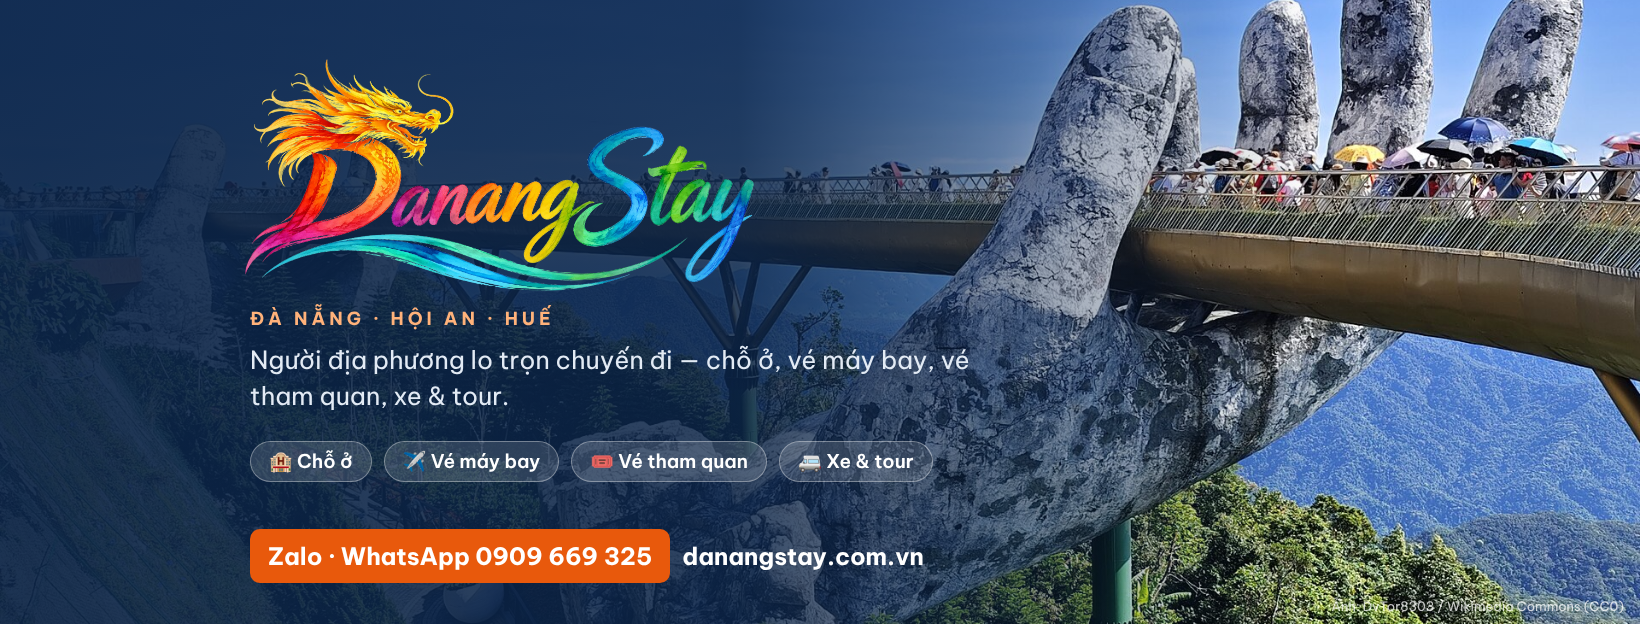
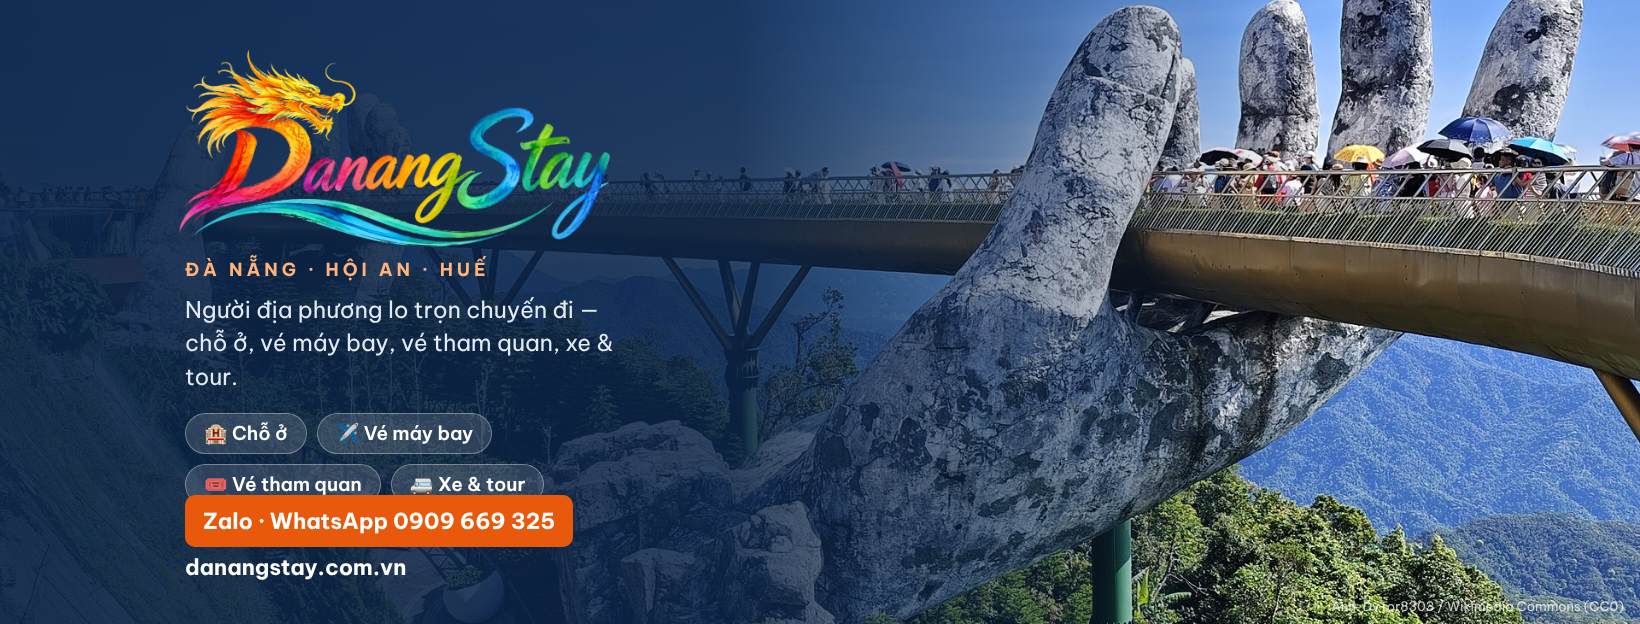
Ảnh bìa Facebook: chừa chỗ ảnh đại diện, vùng an toàn điện thoại
Claude-Session: https://claude.ai/code/session_01Wm6ymen9qs3NkDMsWRNfiE

Changed region(s): [[0.0933, 0.0913, 0.5909, 0.9439], [0.4354, 0.5481, 0.5909, 0.609]]

diff --git a/danangstay/facebook/anh-bia.html b/danangstay/facebook/anh-bia.html
@@ -6,14 +6,14 @@ html,body{margin:0}
 .c img.bg{position:absolute;inset:0;width:100%;height:100%;object-fit:cover;object-position:center 45%}
 .c .sh{position:absolute;inset:0;background:linear-gradient(90deg,rgba(11,36,71,.93) 0%,rgba(11,36,71,.85) 45%,rgba(11,36,71,.35) 66%,rgba(11,36,71,0) 80%)}
 /* vùng an toàn: FB cắt ~ 1200px giữa trên điện thoại */
-.t{position:absolute;left:250px;top:44px;width:760px}
+.t{position:absolute;left:185px;top:40px;width:470px}
 .k{font:700 18px/1 'Be Vietnam Pro';letter-spacing:.22em;text-transform:uppercase;color:#ffb27a}
 h1{margin:14px 0 10px;font:600 78px/1.02 'Playfair Display',serif}
 h1 em{color:#ffb27a}
-p{margin:0 0 26px;font-size:25px;line-height:1.45;color:#e3ebf5}
-.s{display:flex;gap:12px;flex-wrap:wrap}
+p{margin:0 0 20px;font-size:23px;line-height:1.45;color:#e3ebf5}
+.s{display:flex;gap:10px;flex-wrap:wrap;width:440px}
 .s span{background:rgba(255,255,255,.14);border:1px solid rgba(255,255,255,.35);border-radius:999px;padding:10px 18px;font:600 19px/1 'Be Vietnam Pro'}
-.ph{position:absolute;left:250px;bottom:56px;font:700 24px/1 'Be Vietnam Pro'}
+.ph{position:absolute;left:185px;bottom:34px;width:560px;font:700 22px/2.1 'Be Vietnam Pro'}
 .ph b{background:#e8590c;border-radius:10px;padding:12px 18px;margin-right:12px}
 .cr{position:absolute;right:16px;bottom:10px;font-size:13px;color:rgba(255,255,255,.75)}
 </style></head><body>
@@ -21,10 +21,10 @@ p{margin:0 0 26px;font-size:25px;line-height:1.45;color:#e3ebf5}
 <img class="bg" src="bia-goc.jpg">
 <div class="sh"></div>
 <div class="t">
-<img src="logo.png" style="display:block;width:520px;margin:10px 0 14px -10px">
-<div class="k" style="margin-bottom:14px">Đà Nẵng · Hội An · Huế</div><p>Người địa phương lo trọn chuyến đi — chỗ ở, vé máy bay, vé tham quan, xe &amp; tour.</p>
+<img src="logo.png" style="display:block;width:440px;margin:6px 0 10px -10px">
+<div class="k" style="margin-bottom:14px">Đà Nẵng · Hội An · Huế</div><p>Người địa phương lo trọn chuyến đi — chỗ&nbsp;ở, vé máy bay, vé tham quan, xe &amp; tour.</p>
 <div class="s"><span>🏨 Chỗ ở</span><span>✈ Vé máy bay</span><span>🎟 Vé tham quan</span><span>🚐 Xe &amp; tour</span></div>
 </div>
-<div class="ph"><b>Zalo · WhatsApp 0909 669 325</b>danangstay.com.vn</div>
+<div class="ph"><b>Zalo · WhatsApp 0909 669 325</b><br>danangstay.com.vn</div>
 <div class="cr">Ảnh: DvTor8303 / Wikimedia Commons (CC0)</div>
 </div></body></html>
